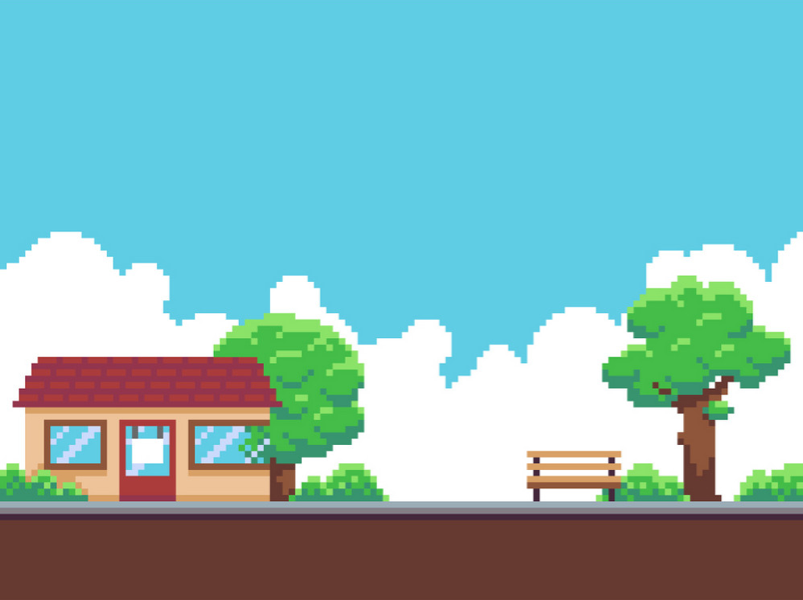
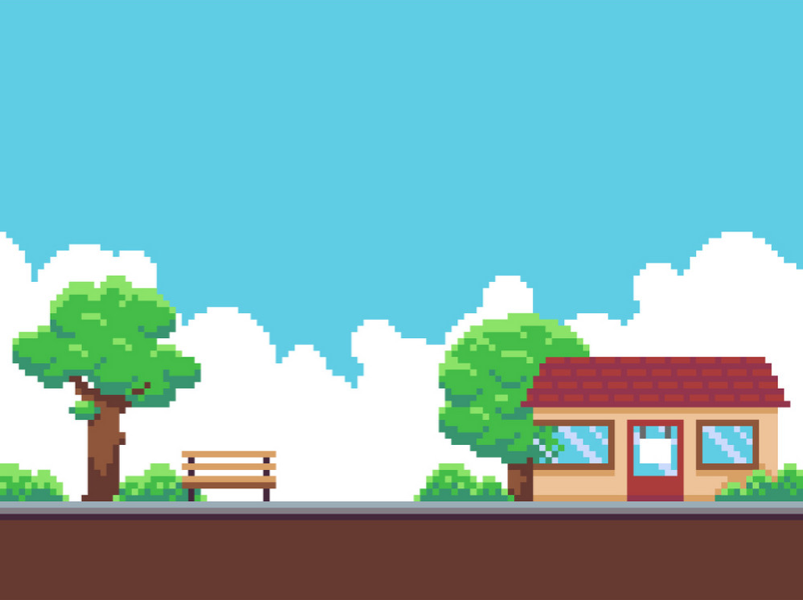
fixed background parallax

Changed region(s): [[0.0, 0.36, 1.0, 0.84]]

diff --git a/Draw.java b/Draw.java
@@ -16,7 +16,6 @@ public class Draw extends JComponent{
 
 	private BufferedImage image;
 	private BufferedImage backgroundImage;
-	private BufferedImage backgroundImage2;
 	public URL resource = getClass().getResource("cat_gun/cat_walk0.png");
 
 	// circle's position
@@ -48,8 +47,8 @@ public class Draw extends JComponent{
 		
 		try{
 			image = ImageIO.read(resource);
-			backgroundImage = ImageIO.read(getClass().getResource("background.png"));
-			backgroundImage2 = ImageIO.read(getClass().getResource("background2.png"));
+			backgroundImage = ImageIO.read(getClass().getResource("background3.png"));
+			
 		}
 		catch(IOException e){
 			e.printStackTrace();
@@ -244,10 +243,10 @@ public class Draw extends JComponent{
 	public void paintComponent(Graphics g){
 		super.paintComponent(g);
 		//g.drawImage(backgroundImage, 0, 0, this);
-		g.drawImage(backgroundImage, x, 0, this);
-		if (g.drawImage(backgroundImage, -x + getWidth() - getWidth(), 0 , this)){
-			g.drawImage(backgroundImage2, +x + getWidth() + getWidth(), 0, this);
-		}
+		//g.drawImage(backgroundImage, x, 0, this);
+		g.drawImage(backgroundImage, -x + getWidth() - getWidth(), 0 , this);
+			//g.drawImage(backgroundImage2, +x + getWidth() + getWidth(), 0, this);
+		
 		// character grid for hero
 		//g.setColor(Color.YELLOW);
 		//g.fillRect(x, y, width, height);

diff --git a/MyFrame.java b/MyFrame.java
@@ -46,7 +46,7 @@ public class MyFrame extends JFrame implements KeyListener{
 
 	public static void main(String args[]){
 		MyFrame gameFrame = new MyFrame();
-		gameFrame.setSize(803,600);
+		gameFrame.setSize(600,600);
 		gameFrame.setDefaultCloseOperation(JFrame.EXIT_ON_CLOSE);
 		gameFrame.setVisible(true);
 		gameFrame.getContentPane().add(gameFrame.drawing);
